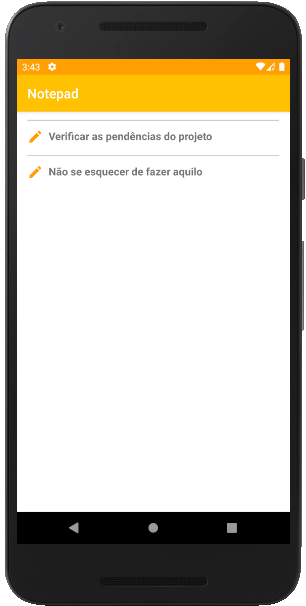
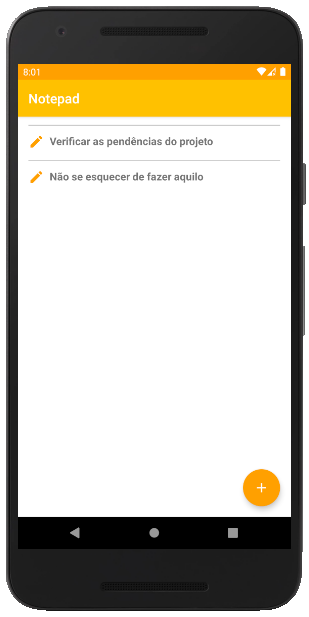
Ajustes no funcionamento das telas e inclusão de exemplo de funcionamento

Changed region(s): [[0.0, 0.0, 1.0, 1.0], [0.9412, 0.9505, 0.9706, 0.9802]]

diff --git a/app/src/main/java/com/fiap/notepad/ui/list/ListActivity.kt b/app/src/main/java/com/fiap/notepad/ui/list/ListActivity.kt
@@ -26,6 +26,11 @@ class ListActivity : AppCompatActivity() {
         super.onCreate(savedInstanceState)
         setContentView(R.layout.activity_result)
 
+        fab.setOnClickListener {
+            val activity = Intent(this, FormActivity::class.java)
+            startActivity(activity)
+        }
+
         if (intent.extras == null) {
             Toast.makeText(this, getString(R.string.activity_list_error_on_load),
                 Toast.LENGTH_SHORT).show()
@@ -47,7 +52,12 @@ class ListActivity : AppCompatActivity() {
             if (caller == CallerConstants.ACTIVITY_FORM_CALLER) {
                 val note = intent.extras?.getParcelable<NoteData>("new_note")!!.note
                 listViewModel.createNote(NoteRequest(note))
-                handleNotes()
+                listViewModel.isNoteCreated.observe(this, Observer {
+                    if (it == true) {
+                        handleNotes()
+                        it == false
+                    }
+                })
             } else if (caller == CallerConstants.MENU_FORM_CALLER ||
                        caller == CallerConstants.ACTIVITY_EDIT_CALLER){
                 handleNotes()
@@ -65,11 +75,6 @@ class ListActivity : AppCompatActivity() {
                 containerLoading.visibility = View.VISIBLE
             } else {
                 containerLoading.visibility = View.GONE
-            }
-        })
-        listViewModel.messageResponse.observe(this, Observer {
-            if (it != "") {
-                Toast.makeText(this, it, Toast.LENGTH_LONG).show()
             }
         })
     }

diff --git a/app/src/main/java/com/fiap/notepad/ui/list/ListViewModel.kt b/app/src/main/java/com/fiap/notepad/ui/list/ListViewModel.kt
@@ -13,6 +13,7 @@ class ListViewModel (val notepadRepository: NotepadRepository) : ViewModel() {
     val notes: MutableLiveData<List<NoteResponseItem>> = MutableLiveData()
 
     val isLoading: MutableLiveData<Boolean> = MutableLiveData()
+    val isNoteCreated: MutableLiveData<Boolean> = MutableLiveData()
 
     fun getNotes() {
 
@@ -31,8 +32,10 @@ class ListViewModel (val notepadRepository: NotepadRepository) : ViewModel() {
 
     fun createNote(noteRequest : NoteRequest) {
         isLoading.value = true
+        isNoteCreated.value = false
         notepadRepository.createNote(noteRequest, {
             isLoading.value = false
+            isNoteCreated.value = true
             messageResponse.value = R.string.view_model_form_request_successfully.toString()
         }, {
             isLoading.value = false

diff --git a/app/src/main/java/com/fiap/notepad/ui/edit/EditActivity.kt b/app/src/main/java/com/fiap/notepad/ui/edit/EditActivity.kt
@@ -61,6 +61,7 @@ class EditActivity : AppCompatActivity() {
             val activity = Intent(this@EditActivity, ListActivity::class.java)
             activity.putExtra("caller", CallerConstants.ACTIVITY_EDIT_CALLER);
             startActivity(activity)
+            finish()
         }
         clearData()
     }
@@ -82,6 +83,7 @@ class EditActivity : AppCompatActivity() {
                     val activity = Intent(this@EditActivity, ListActivity::class.java)
                     activity.putExtra("caller", CallerConstants.ACTIVITY_EDIT_CALLER);
                     startActivity(activity)
+                    finish()
                 })
             .setNegativeButton(R.string.activity_edit_delete_action_cancel,
                 DialogInterface.OnClickListener { dialog, id -> dialog.cancel() })

diff --git a/README.md b/README.md
@@ -15,7 +15,7 @@
 
 ## Informações do Projeto
 
-### Funcionamento
+### Exemplo de Funcionamento
 ![](example.gif)
 
 ### Telas
